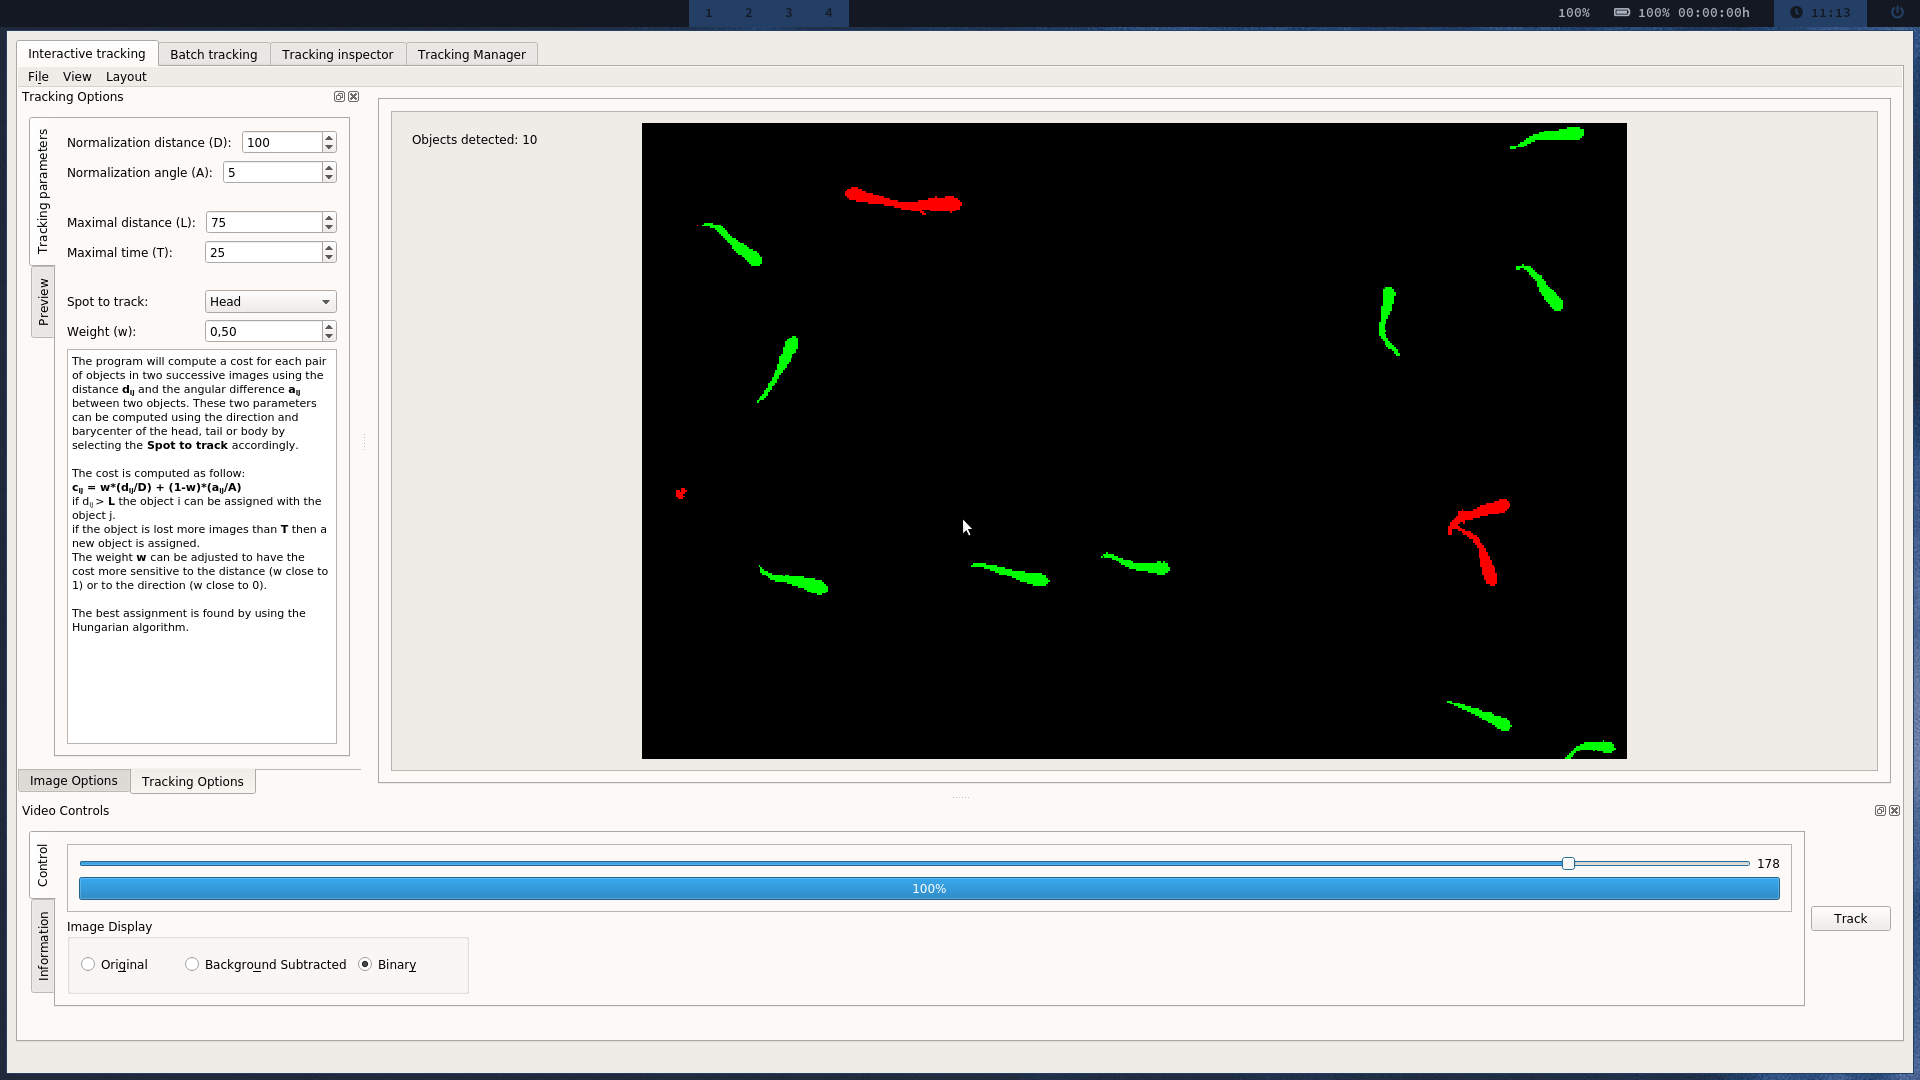
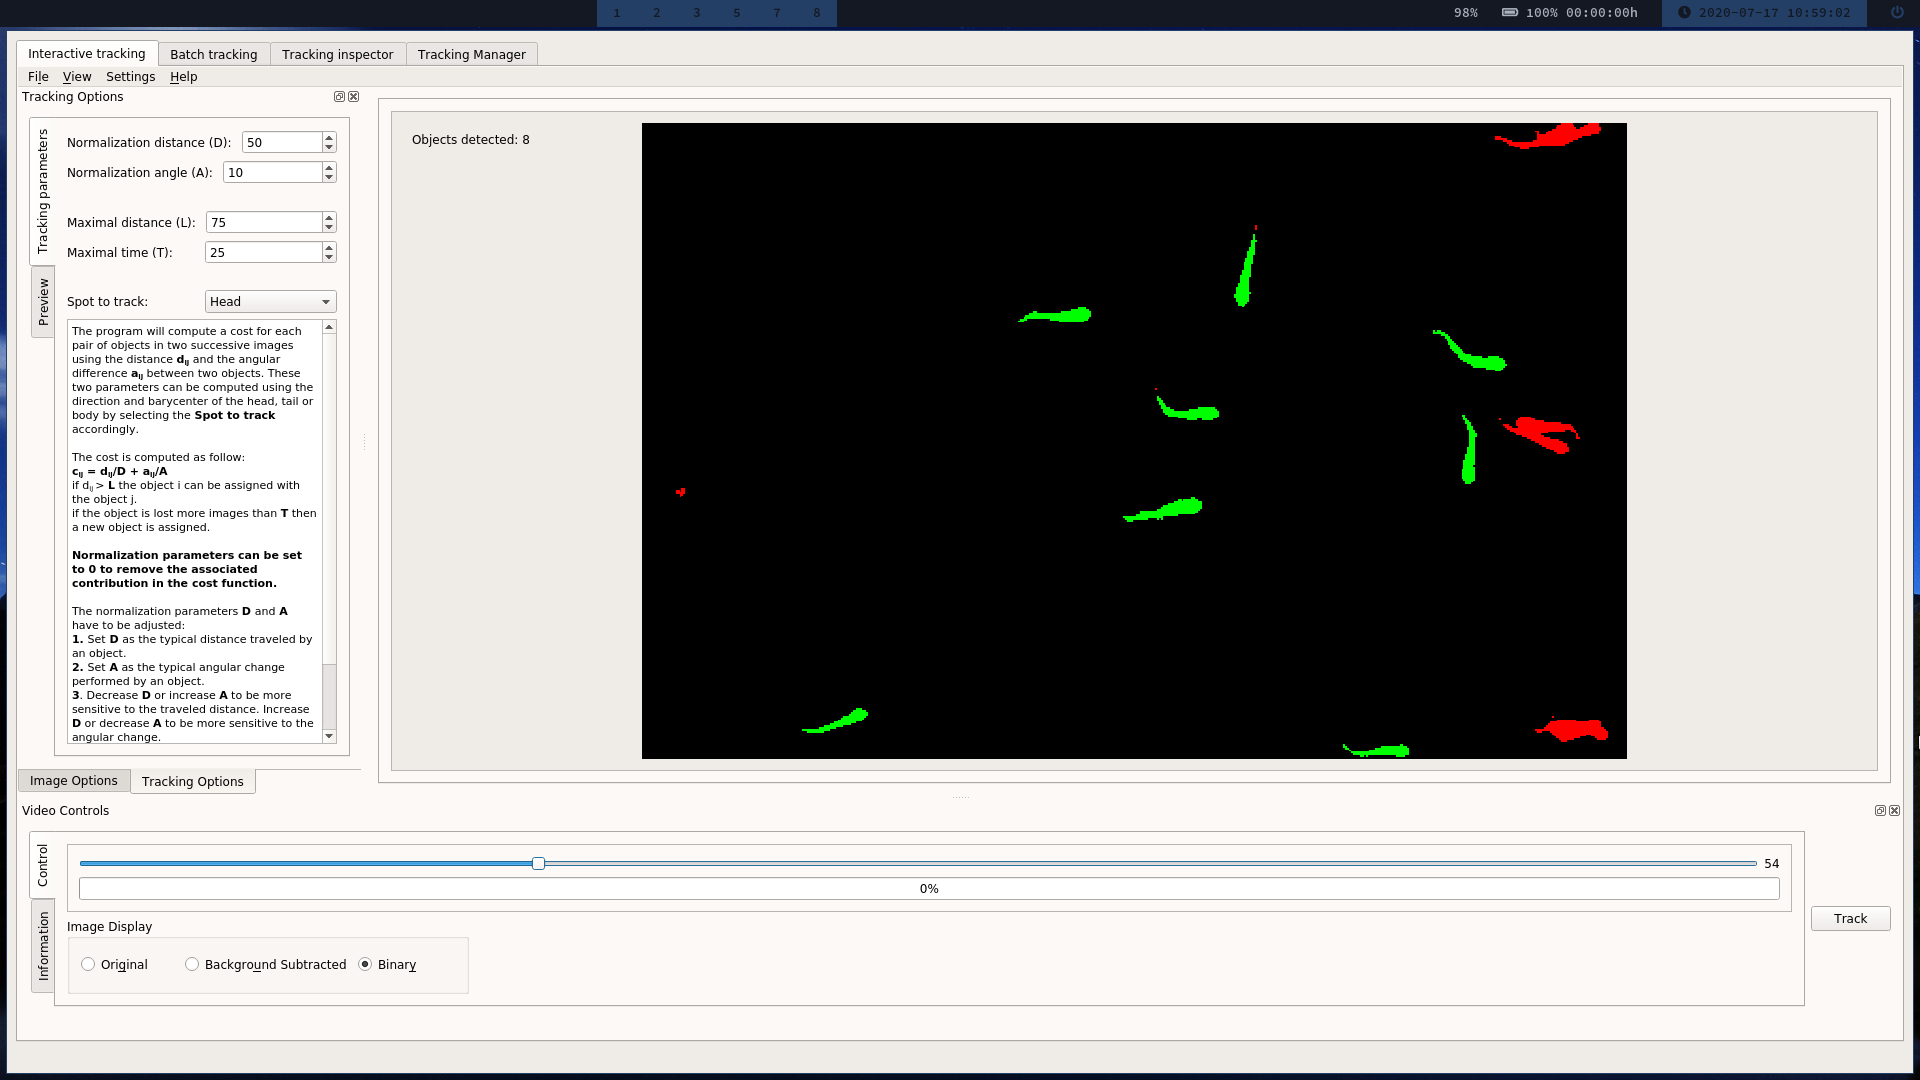
[docs] global: update documentations

diff --git a/src/tracking.cpp b/src/tracking.cpp
@@ -481,8 +481,8 @@ vector<vector<Point3d>> Tracking::objectPosition(const UMat &frame, int minSize,
   * @brief Computes a cost function and use a global optimization association to associate targets between images. Method adapted from: "An effective and robust method for Tracking multiple fish in video image based on fish head detection" YQ Chen et al. Uses the Hungarian method implemented by Cong Ma, 2016 "https://github.com/mcximing/hungarian-algorithm-cpp" adapted from the Matlab implementation by Markus Buehren "https://fr.mathworks.com/matlabcentral/fileexchange/6543-functions-for-the-rectangular-assignment-problem".
   * @param[in] prevPos The vector of objects parameters at the previous image.
   * @param[in] pos The vector of objects parameters at the current image that we want to sort in order to conserve objects identity.
-  * @param[in] LENGTH The maximal displacement of an object between two images in pixels.
-  * @param[in] WEIGHT The weight between distance and direction in the computation of the cost function. 0: change in distance, 1: change in orientation.
+  * @param[in] LENGTH The typical displacement of an object in pixels.
+  * @param[in] ANGLE The typical reorientation angle in radians.
   * @param[in] LO The maximal assignment distance in pixels.
   * @return The assignment vector containing the new index position to sort the pos vector. 
 */

diff --git a/docs/dev/DeveloperGuide.md b/docs/dev/DeveloperGuide.md
@@ -17,25 +17,25 @@ FastTrack is developed to be embedded in existing C++/Qt projects. It can also b
 
 1. Go to https://download/qt.io/archive/qt and choose the last version of Qt (this example is made with the 5.12 version). Download the Window installer.
 
-   ![Qt download page](ressources/Qt_Rep.png)
+   ![Qt download page](Qt_Rep.png)
 
 2. Follow the installation steps and select **C:\Qt\Qt5.12.0** for the installation folder. In the Select Components page, select MinGW 7.3.0 64 bit and Qt creator 4.8.
 
-   ![Qt installer dialogue](ressources/Qt_Dial.png)
+   ![Qt installer dialogue](Qt_Dial.png)
 
 3. Add MinGW to the path:
 
    - Open the **Settings** dialogue.
 
-     ![Windows settings dialogue](ressources/Setting_Dial.png)
+     ![Windows settings dialogue](Setting_Dial.png)
 
    - Open the **Edit the system environment variables** and click on the **Environment Variables** button.
 
-     ![Windows Environment Variables dialogue](ressources/Var_Dial.png)
+     ![Windows Environment Variables dialogue](Var_Dial.png)
 
    - Double click on **Path** and add the MinGW path: **C:\Qt\Qt5.12.0\Tools\mingw730_64\bin**.
 
-     ![Windows Edit environment variable dialogue](ressources/Path_Dial.png)
+     ![Windows Edit environment variable dialogue](Path_Dial.png)
 
 #### OpenCV installation
 
@@ -43,29 +43,29 @@ FastTrack is developed to be embedded in existing C++/Qt projects. It can also b
 
 - Extract OpenCV in the **C:\ ** folder.
 
-  ![OpenCV self-extracting archive dialogue](ressources/Opencv_Dial.png)
+  ![OpenCV self-extracting archive dialogue](Opencv_Dial.png)
 
 - Download and install CMake https://cmake.org/download/.
 
 - Open CMake an set **Where is the source code** to **C:/opencv/source ** and **Where to build the binaries** to **C:/opencv/source/build **.
 
-  ![CMake dialogue](ressources/1_Cmake.png)
+  ![CMake dialogue](1_Cmake.png)
 
 - Click on the Configure button and select **MinGW Makefiles** and tick **Specify native compiler**.
 
-  ![CMake dialogue](ressources/1.5_Cmake.png)
+  ![CMake dialogue](1.5_Cmake.png)
 
 - Set the C and C++ path compiler to **C:/Qt/Qt5.12.0/Tools/mingw730_64/bin/gcc.exe** and **C:/Qt/Qt5.12.0/Tools/mingw730_64/bin/g++.exe**.
 
-  ![CMake dialogue](ressources/3_Cmake.png)
+  ![CMake dialogue](3_Cmake.png)
 
 - Untick  **WITH_OPENCL** and tick **WITH_OPENMP** and click on the Configure button. Then click the Generate button.
 
-  ![CMake dialogue](ressources/4_Cmake.png)
+  ![CMake dialogue](4_Cmake.png)
 
 - Open the **Command Prompt** application.
 
-  ![Windows Command Prompt application](ressources/Command_Dial.png)
+  ![Windows Command Prompt application](Command_Dial.png)
 
 - Type (replace 8 by your the number of processors on your computer) the command
 
@@ -77,7 +77,7 @@ FastTrack is developed to be embedded in existing C++/Qt projects. It can also b
 
 - Add  **C:\opencv\sources\build\install\x64\mingw\bin** to the Path.
 
-  ![](ressources/Path2_Dial.png)
+  ![](Path2_Dial.png)
 
 
 #### Configure FastTrack

diff --git a/docs/user/interactiveTracking.md b/docs/user/interactiveTracking.md
@@ -39,11 +39,10 @@ Objects are detected by their size. Select the maximum and minimum size of the d
 ## Tune the tracking parameters
 Several parameters can be modified to ensure a good tracking analysis:
 * Normalization distance (legacy Maximal lenght/ Typical lenght): typical distance traveled between two consecutive images.
-* Normalization angle (legacy Maximal angle/Typical lenght): maximal reorientation possible between two consecutive images.
+* Normalization angle (legacy Maximal angle/Typical lenght): typical reorientation possible between two consecutive images.
 * Maximal distance: if an object traveled more than this distance between two consecutive images, it will be considered as a new object.
 * Maximal time: number of images an object is allowed to disappear. If an object reappears after this time, it will be considered as a new object.
 * Spot to track: part of the object features used to do the tracking. Select the part that reflects the better the direction of the object. Legacy parameter, head correspond to the smaller mid-part of the object, tail ellipse the wider mid-part og the object and body is the full object.
-* Weight: closer to one the tracking will be more sensitive to the change in position of the object. Closer to zero it will be more sensitive to the change in direction of the object.
 
 ## Registration
 The image registration is the process to correct small displacements and rotation of the camera that can occur during the movie. Fast Track provides several methods for registering the movie: 

diff --git a/docs/user/parametersSelection.md b/docs/user/parametersSelection.md
@@ -18,5 +18,3 @@ The detection parameters reject objects that are smaller or bigger than a certai
 Tracking parameters are mostly found by trials and errors. But some rules of thumbs can be applied. 
 
 **Spot to track** has to be set to **Body** for quasi-symmetric objects and low-resolution objects. For deformable objects with enough resolution, select **Head** or **Tail** according to the part that predicts best the traveling direction of the object.
-
-**Weight** has to be set to 1 for symmetric objects where the angular dependency is irrelevant.

diff --git a/docs/user/example.md b/docs/user/example.md
@@ -38,11 +38,10 @@ First, download the zip file and extract it. The image sequence is located insid
     
     ![alt text](assets/example_4.png)
  6. Click the **Tracking Options** tab and select:
-    * Normalization Distance: **100**
-    * Normalization Angle: **5**
+    * Normalization Distance: **50**
+    * Normalization Angle: **10**
     * Maximal Distance: **75**
     * Maximal Time: **25**
-    * Weight: **0.5**
     * Spot to track: **Head** (best for deformable asymetric objects)
     
     ![alt text](assets/example_5.png)
